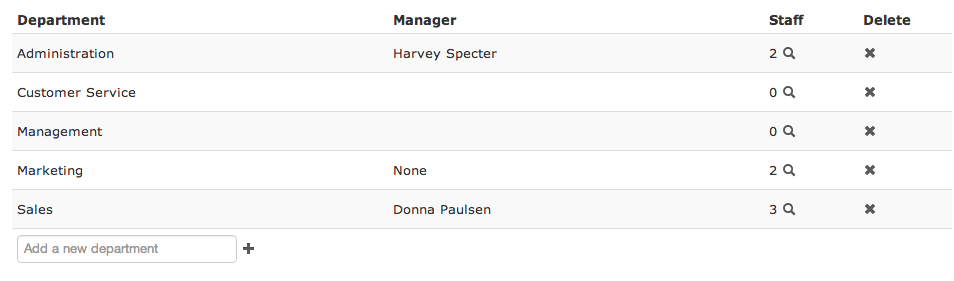
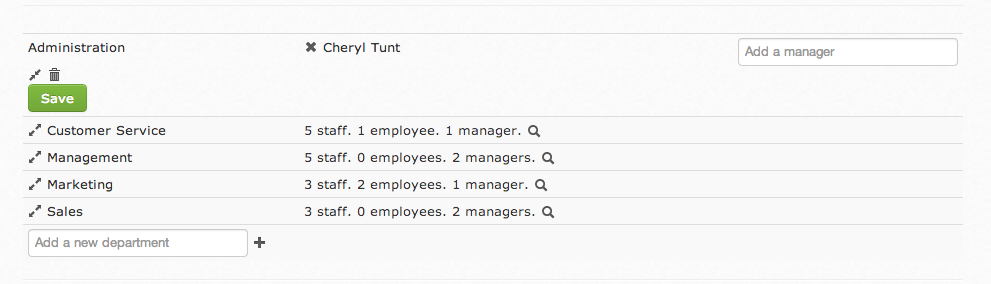
update departments to reflect new layout

diff --git a/_posts/staff/2013-02-06-departments.md b/_posts/staff/2013-02-06-departments.md
@@ -5,41 +5,43 @@ categories: ['staff']
 sort: 3
 ---
 
-Departments are the building blocks of a business &mdash; in the real world, and in PayAus. A department groups staff members together, which allows you to;
+Departments are the building blocks of a business. In PayAus, a department groups staff members together, which allows you to;
 
 * Filter to staff from a specific department.
 * Report on the performance on a department basis.
-* Assign "managers" to departments, who are able to access PayAus but only have control over their department's actions.
+* Assign managers to departments, who are able to access PayAus but only have control over their department's actions.
 
-Departments are displayed in a list, which shows essential department information: its name, its manager, and the number of staff in this department. You can click the <i class="icon-search"> </i> magnifying glass to see the department's staff.
+Departments are displayed in a list, which shows essential information such as how many staff it has. You can click the <i class="icon-resize-full"> </i> expand icon to see and edit department details.
 
 ![A list of departments](/img/users/departments.png)
 
 ### Creating a Department
 
-Departments are created through the departments screen, which is accessible from the [site navigation](../intro/), or from the [My Team](../team/) page. Create a department by entering its name in the box provided, then clicking the plus (**+**) icon, or pressing enter on your keyboard.
+Departments are created through the departments screen, which is accessible from the [site navigation](../intro/). Create a department by entering its name in the box provided, then clicking the plus (**+**) icon, or pressing enter on your keyboard.
 
 ![Creating a new department](/img/users/create_dept.png)
 
 ### Editing a Department
 
-You can change a department's deatils simply by clicking on the appropriate field, making your changes, and pressing enter on your keyboard. Changes are saved instantly.
+To rename a department, click the click the <i class="icon-resize-full"> </i> expand icon next to its name, then click on its name to edit it. Finally, click **Save** to save your changes.
 
 ![Renaming a department](/img/users/edit_dept_name.png)
 
 #### Department Managers
 
-Initially, a department will have zero staff, and therefore cannot have a manager. So the next step, after creating one, is to add staff to it. For more information about doing so, take a look at the [staff guide](../team/).
+A department's manager has full control over staff in their department. They are able to view and edit [staff details](../team/), approve [timesheets](../../timesheets/intro/), and create [rosters](../../rosters/intro/). To add a manager for a department, click the click the <i class="icon-resize-full"> </i> expand icon next to department's name. Then, type the manager's name into the autocomplete box. Choose the new manager to add, then click **Save** to save your changes.
 
-Once a department has staff, it can be assigned a manager. A department manager is a user of the PayAus system who has some additional power, but only over their department. Managers are able to view staff details, timesheets, and so forth but only for staff in their department.
-
-You can assign a department manager by clicking on the manager's name, or the dash, if there isn't currently a manager. As with other details, changes are saved instantly.
+A department can have as many managers as you like. Managers do not need to be members of the department to manage it. This allows for very flexible structures for businesses with large numbers of outlets.
 
 ![Changing a department manager](/img/users/edit_dept_manager.png)
 
+To remove a manager, click the <i class="icon-remove"> </i> cross next to their name, then click **Save** to save your changes.
+
 ### Deleting a Department
 
-You can delete a department by clicking the <i class="icon-remove"> </i> cross icon next to the department's details. When you delete a department, its staff are *not* deleted &mdash; they have simply have their "department" field set to "none", which means they won't be part of any department. Of course, you can easily re-assign staff to another department via their [details page](../team/).
+To delete a department, click the click the <i class="icon-resize-full"> </i> expand icon next to department its name. Then, click the <i class="icon-trash"> </i> trash icon. The department's staff won't be removed; they just won't be members of this department anymore.
+
+![Deleting a department](/img/users/delete_dept.png)
 
 {% render_partial irreversible.html %}
 
